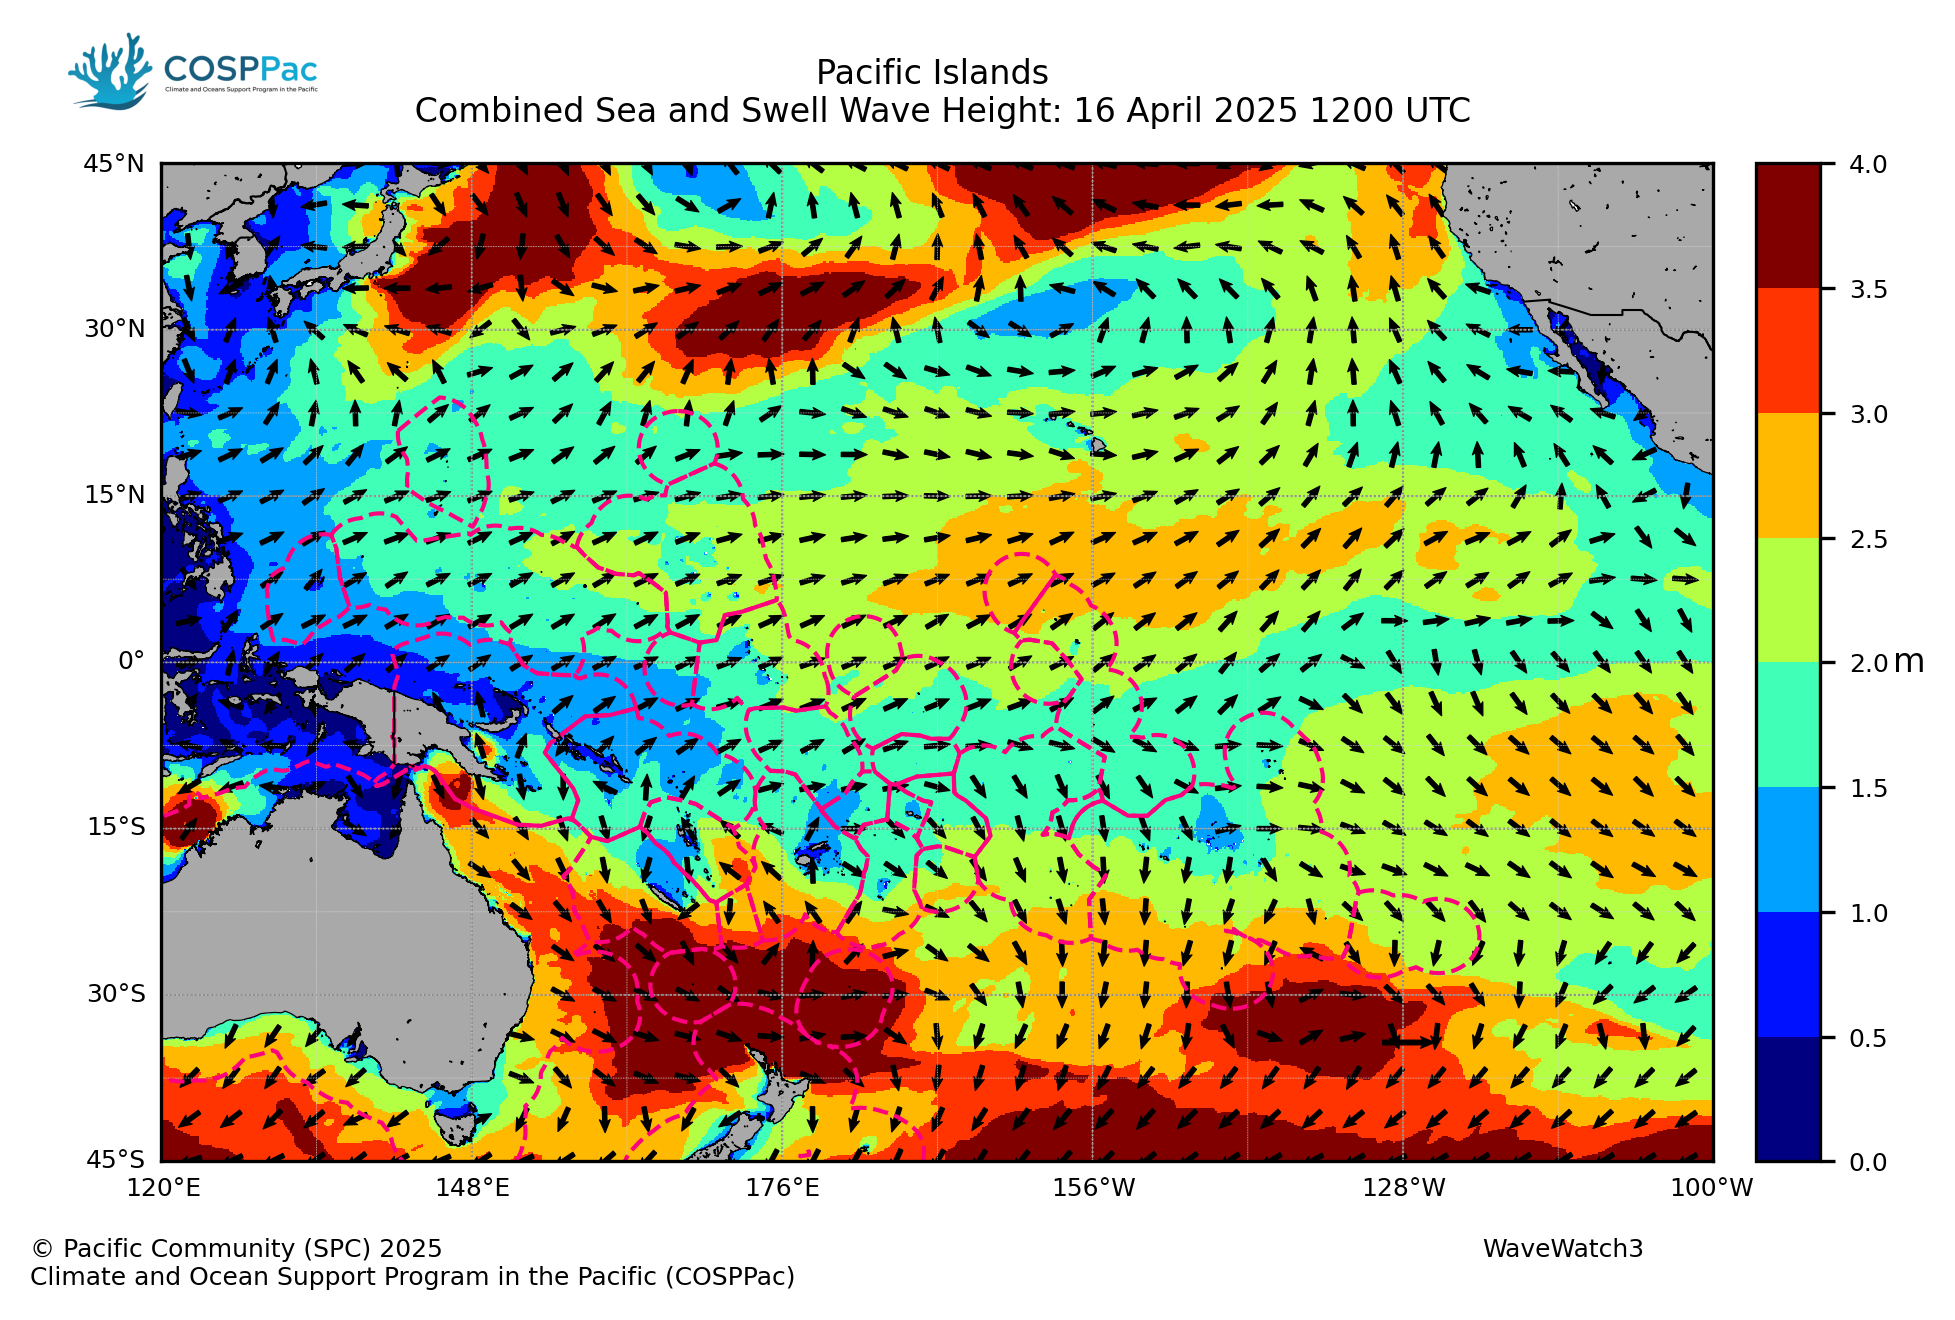
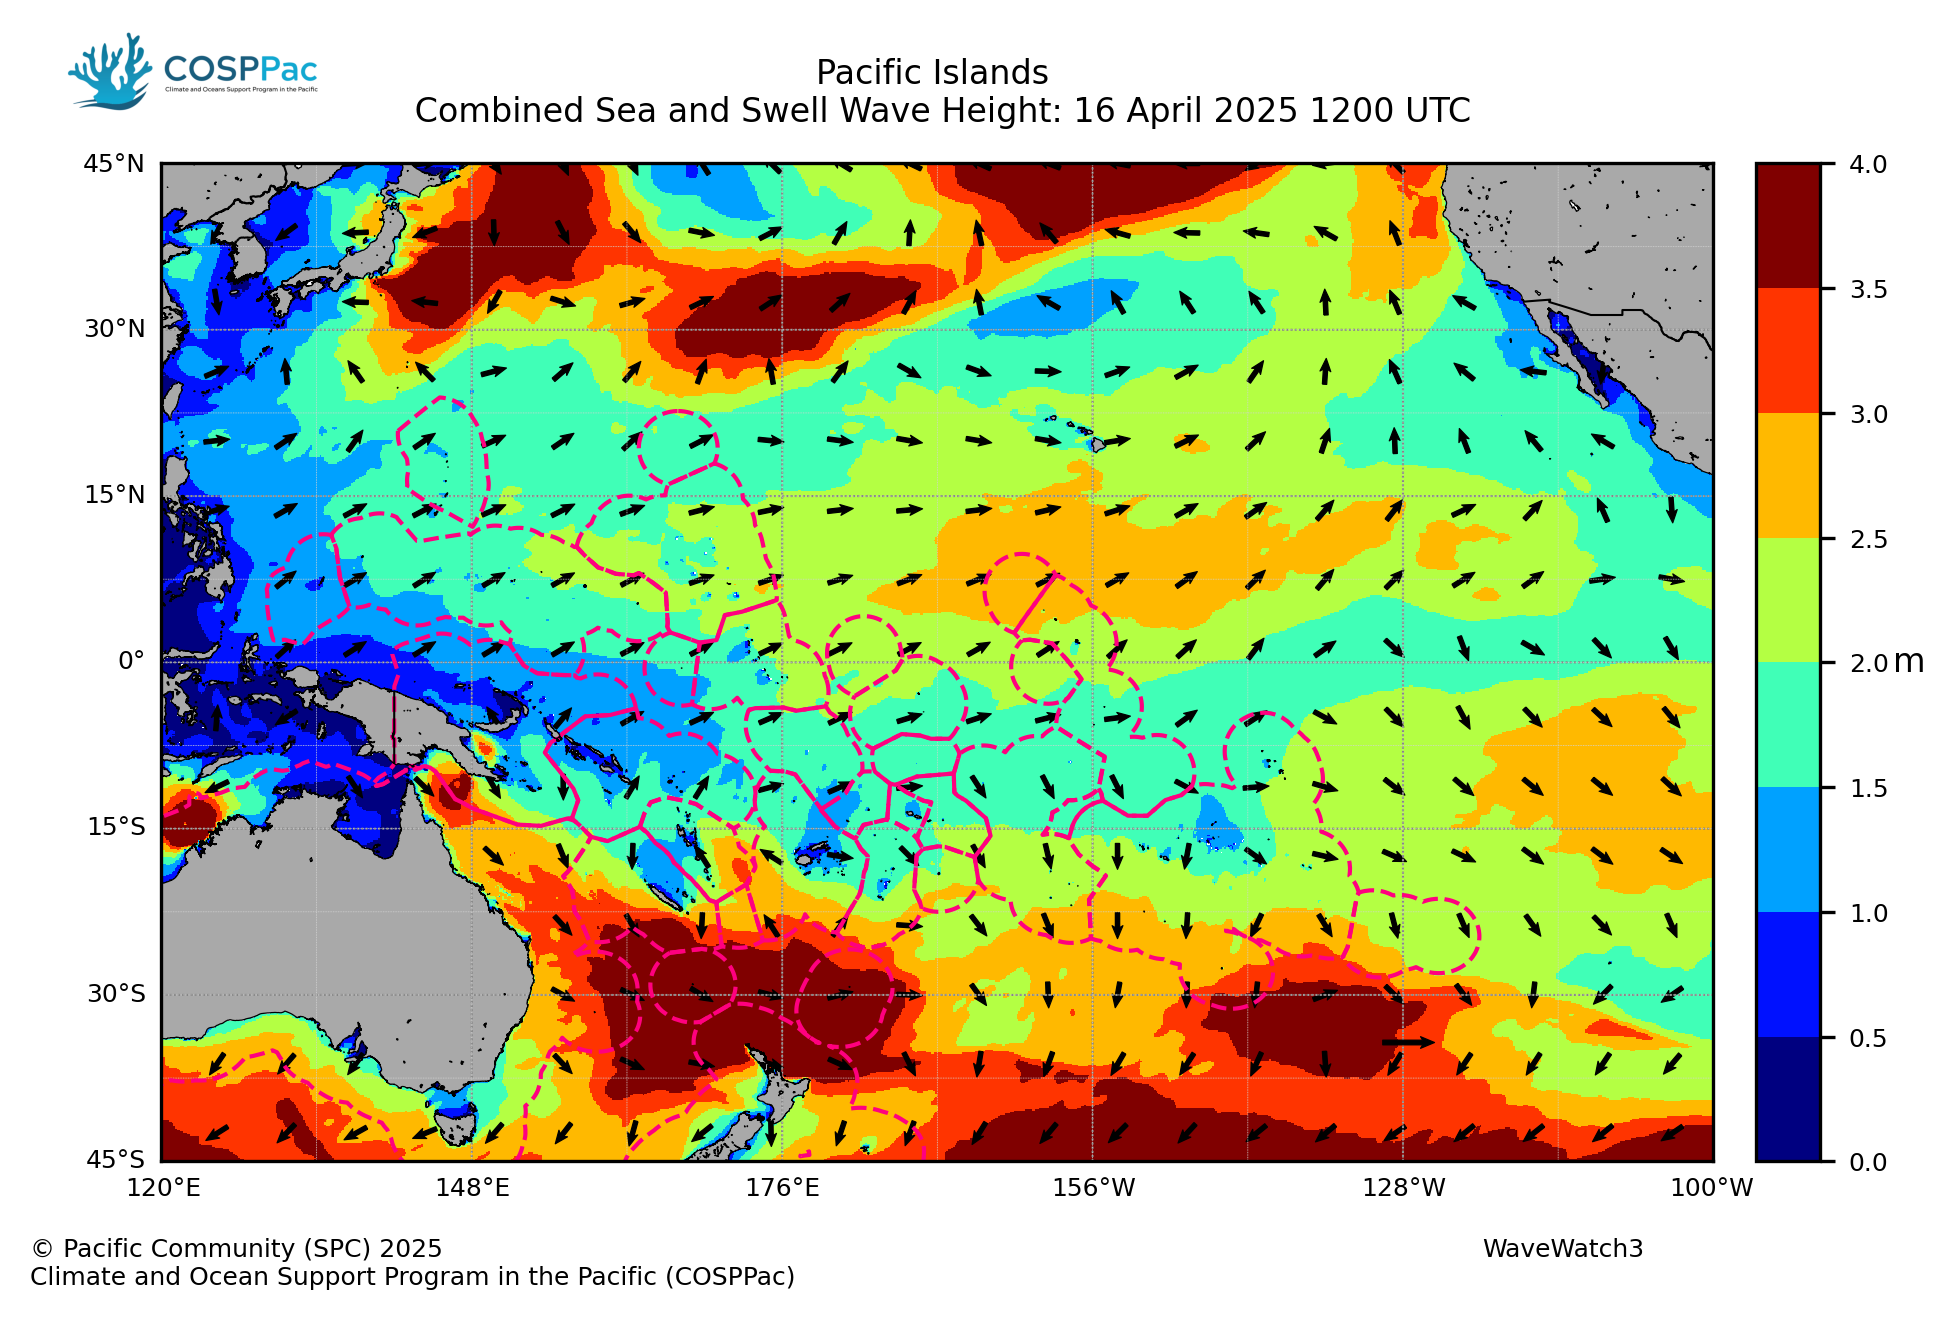
wave

diff --git a/cgi-bin/main.py b/cgi-bin/main.py
@@ -341,9 +341,9 @@ def plot_filled_pcolor(ax, ax_legend, lon, lat, data,
     return pc, cbar
 
 def plot_wave_field(ax, ax_legend, m, lon, lat, wave_height, wave_dir,
-                   min_color_plot, max_color_plot, steps,
+                   min_color_plot, max_color_plot, steps,region,
                    cmap_name='jet', units='m',
-                   step=30, scale=30, arrow_scale=0.5,region=1):
+                   step=30, scale=30, arrow_scale=0.5):
     
     # Convert wave direction to components
     wave_dir_rad = np.radians(wave_dir)
@@ -382,6 +382,8 @@ def plot_wave_field(ax, ax_legend, m, lon, lat, wave_height, wave_dir,
     v_arrows = arrow_scale * np.cos(theta)
     if region != 1:
         step = 10
+    else:
+        step = 50
     
     q = ax.quiver(x[::step, ::step], y[::step, ::step], 
                 u_arrows[::step, ::step], v_arrows[::step, ::step],
@@ -666,7 +668,7 @@ elif plot_type == "wave_with_dir":
     lon, lat, wave_height = getfromDAP(dap_url, time, wave_height_varib, adjust_lon=True)
     _, _, wave_dir = getfromDAP(dap_url, time, wave_dir_varib, adjust_lon=True)
     cs, q, cbar = plot_wave_field(ax2, ax_legend, m, lon, lat, wave_height, wave_dir,\
-                             min_color_plot, max_color_plot, steps, cmap_name=cmap_name, units=units,region=region)
+                             min_color_plot, max_color_plot, steps,region, cmap_name=cmap_name, units=units)
 elif plot_type == "discrete":
     lons, lats, bleaching_data = getfromDAP(dap_url, time, dap_variable, adjust_lon=True)
     tmp_color, tmp_label = discrete.split('-')

diff --git a/cgi-bin/plot_opendap.py b/cgi-bin/plot_opendap.py
@@ -342,9 +342,9 @@ def plot_filled_pcolor(ax, ax_legend, lon, lat, data,
     return pc, cbar
 
 def plot_wave_field(ax, ax_legend, m, lon, lat, wave_height, wave_dir,
-                   min_color_plot, max_color_plot, steps,
+                   min_color_plot, max_color_plot, steps,region,
                    cmap_name='jet', units='m',
-                   step=30, scale=30, arrow_scale=0.5,region=1):
+                   step=30, scale=30, arrow_scale=0.5):
     
     # Convert wave direction to components
     wave_dir_rad = np.radians(wave_dir)
@@ -384,7 +384,7 @@ def plot_wave_field(ax, ax_legend, m, lon, lat, wave_height, wave_dir,
     if region != 1:
         step = 10
     else:
-        step = 30
+        step = 50
     
     q = ax.quiver(x[::step, ::step], y[::step, ::step], 
                 u_arrows[::step, ::step], v_arrows[::step, ::step],
@@ -684,7 +684,7 @@ else:
         lon, lat, wave_height = getfromDAP(dap_url, time, wave_height_varib, adjust_lon=True)
         _, _, wave_dir = getfromDAP(dap_url, time, wave_dir_varib, adjust_lon=True)
         cs, q, cbar = plot_wave_field(ax2, ax_legend, m, lon, lat, wave_height, wave_dir,\
-                                min_color_plot, max_color_plot, steps, cmap_name=cmap_name, units=units,region=region)
+                             min_color_plot, max_color_plot, steps,region, cmap_name=cmap_name, units=units)
     elif plot_type == "discrete":
         lons, lats, bleaching_data = getfromDAP(dap_url, time, dap_variable, adjust_lon=True)
         tmp_color, tmp_label = discrete.split('-')
